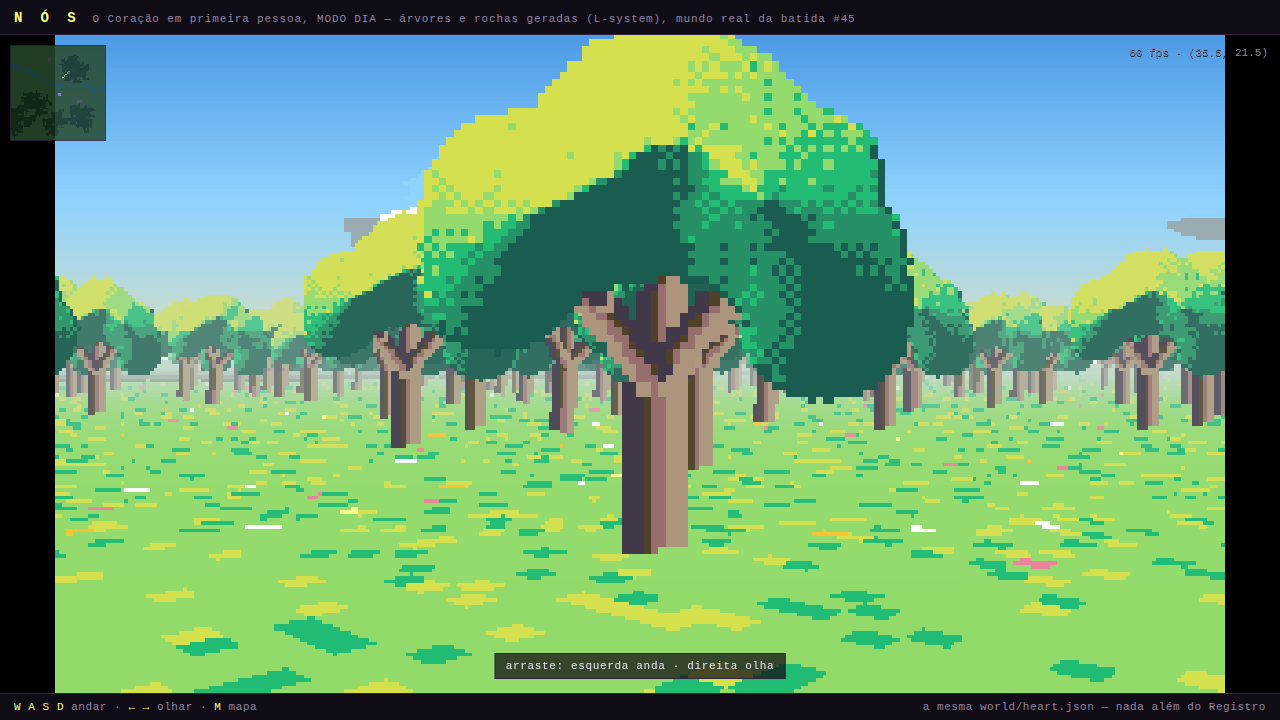
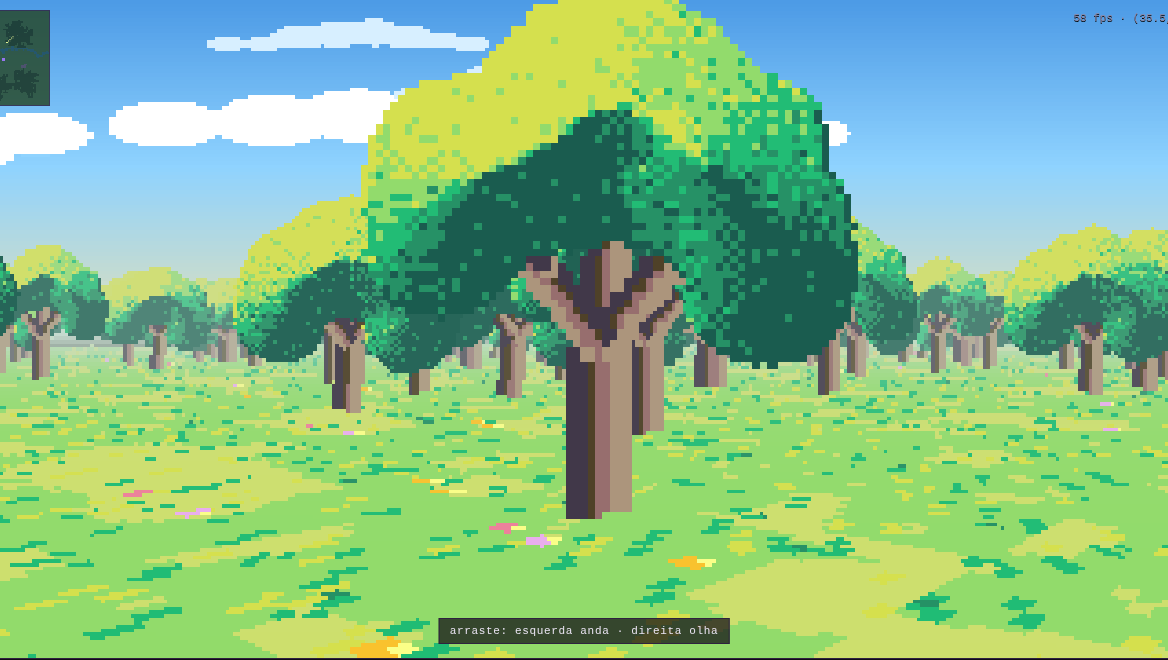
protótipo v3: chão 32px, rochas-objeto (4 faces), 8 árvores com vento, flores
- Gramado: tiles de chão agora 32px por tile de mundo (grão 2x mais fino),
  pinceladas/touceiras/flores em cacho reescaladas.
- Rochas viram OBJETO: 4 faces pré-rendidas por rotação de 90° escolhidas
  pelo ângulo de visão (rotações à la Doom) — mudam de cara quando você
  circula; textura v2 com facetas em platôs duros, rim light, rachaduras,
  musgo só no topo com borda ditherada, base achatada e sombra de contato
  embutida no sprite.
- Árvores: 8 variantes (carvalho/copado/anciao/jovem/salgueiro), folhagem
  com textura de folhinhas 1px, e VENTO — 3 frames por variante (folhas
  deslocam com peso pela altura, tronco parado), fase própria por árvore.
- Flores avulsas: haste em arco + cabeça de pétalas (5 paletas), 3 frames
  de inclinação, ~9% da campina, balançando em fase própria.
58-60fps mantidos.

Claude-Session: https://claude.ai/code/session_011RMb7NFMQktSfEYCn3A41e

diff --git a/prototipos/fps/nos-fps.html b/prototipos/fps/nos-fps.html
@@ -277,6 +277,15 @@ function growTree(opts) {
     return { buf, W, H };
   }
 
+  /* vento: desloca os aglomerados de folha pro lado, mais forte no alto da
+     copa — o TRONCO fica parado; 3 frames disso viram o balanço */
+  if (opts.windAmt) {
+    for (const lf of leaves) {
+      const heightW = 0.5 + 1.3 * (1 - lf.y / H);
+      lf.x += opts.windAmt * heightW * (0.7 + hash2(lf.x | 0, lf.y | 0) * 0.8);
+    }
+  }
+
   /* ---- copa: campo de densidade -> massa coesa iluminada ---- */
   const dens = new Float32Array(W * H);
   let cx = 0, cy = 0, minY = H, maxY = 0;
@@ -344,6 +353,8 @@ function growTree(opts) {
         else buf[y * W + x] = leafRamp[idx];
         continue;
       }
+      // textura de folhagem: marquinhas 1px subindo/descendo um tom
+      if (hash2(x * 3 + 1, y * 3 + 7) < 0.13) idx = clamp(idx + (hash2(x, y * 13) < 0.5 ? -1 : 1), 0, last);
       // brilho pontual (folha pegando sol)
       if (lam > 0.32 && hash2(x + 7, y + 13) < 0.045) idx = last;
       buf[y * W + x] = leafRamp[Math.max(idx, 0)];
@@ -443,50 +454,79 @@ function genSky(opts) {
   return { buf, W, H };
 }
 
-/* rocha: blob convexo deformado por ruído, sombreado por normal quantizada + topo de musgo */
+/* rocha v2: blob deformado por ruído com FACETAS duras (platôs), rim light
+   no alto-esquerda, sombra dura embaixo, rachaduras e musgo ditherado.
+   `view` gira a MESMA pedra (0..3 = quartos de volta): 4 faces pré-rendidas
+   viram "rotações Doom" — a pedra lê como objeto, não adesivo. */
 function genRock(opts) {
   const seed = (opts.seed | 0) || 1;
-  const rnd = mulberry32(seed);
-  const W = opts.W || 56, H = opts.H || 40;
+  const view = opts.view || 0;
+  const rot = view * Math.PI / 2;
+  const rnd = mulberry32(seed * 33871 + 5);
+  const W = opts.W || 72, H = opts.H || 52;
   const buf = new Int16Array(W * H).fill(-1);
-  const cx = W / 2, cy = H * 0.62;
-  const rx = W * (0.34 + rnd() * 0.1), ry = H * (0.3 + rnd() * 0.08);
+  const cx = W / 2, cy = H * 0.58;
+  const rx = W * (0.34 + rnd() * 0.09), ry = H * (0.32 + rnd() * 0.08);
   const off = rnd() * 128;
-  const rad = (ang) => 1 + 0.34 * (vnoise(Math.cos(ang) * 1.4 + off, Math.sin(ang) * 1.4 + off) - 0.5) * 2;
+  const baseline = cy + ry * 0.72; // base ACHATADA: pedra sentada no chão, não oval flutuante
+  const rad = (ang) => 1 + 0.36 * (vnoise(Math.cos(ang + rot) * 1.4 + off, Math.sin(ang + rot) * 1.4 + off) - 0.5) * 2;
   const inside = (x, y) => {
+    if (y > baseline) return -1;
     const ang = Math.atan2((y - cy) / ry, (x - cx) / rx);
     const rr = rad(ang);
     const d = Math.hypot((x - cx) / (rx * rr), (y - cy) / (ry * rr));
     return d <= 1 ? d : -1;
   };
+  const cosR = Math.cos(rot), sinR = Math.sin(rot);
+  const RAMP = [1, 2, 6, 7, 8];
   for (let y = 0; y < H; y++) {
     for (let x = 0; x < W; x++) {
       const d = inside(x, y);
       if (d < 0) continue;
-      // normal aproximada pelo gradiente da distância
       const eps = 1.2;
       const dl = inside(x - eps, y), dr = inside(x + eps, y);
       const du = inside(x, y - eps), dd = inside(x, y + eps);
-      const nx = (dr < 0 ? 1.4 : dr) - (dl < 0 ? 1.4 : dl);
-      const ny = (dd < 0 ? 1.4 : dd) - (du < 0 ? 1.4 : du);
+      const nx = (dr < 0 ? 1.5 : dr) - (dl < 0 ? 1.5 : dl);
+      const ny = (dd < 0 ? 1.5 : dd) - (du < 0 ? 1.5 : du);
       const nm = Math.hypot(nx, ny) || 1e-4;
-      const lam = (-nx / nm) * -0.55 + (-ny / nm) * -0.83; // luz alto-esquerda
-      const facet = fbm(x / 7 + off, y / 7 + off, 3);       // facetas internas
-      let t = 0.55 + 0.5 * lam + (facet - 0.5) * 0.55;
-      t += (BAYER[y & 3][x & 3] / 16 - 0.5) * 0.18;
-      // musgo no topo (normal apontando pra cima + parte alta da rocha)
+      const lam = (-nx / nm) * -0.55 + (-ny / nm) * -0.83;
+      const xr = cosR * (x - cx) - sinR * (y - cy), yr = sinR * (x - cx) + cosR * (y - cy);
+      const facet = Math.floor(fbm(xr / 8 + off, yr / 8 + off, 3) * 4) / 4;
+      let t = 0.52 + 0.40 * lam + (facet - 0.5) * 0.80;
+      const boundary = inside(x - 1, y) < 0 || inside(x + 1, y) < 0 || inside(x, y - 1) < 0 || inside(x, y + 1) < 0;
       const upness = -ny / nm;
-      if (upness > 0.45 && d < 0.9 && fbm(x / 5 + off * 2, y / 5, 2) > 0.42 && y < cy) {
-        buf[y * W + x] = t > 0.62 ? 37 : 36;
+      const mossV = fbm(xr / 5 + off * 2, yr / 5, 2);
+      if (upness > 0.45 && y < cy - ry * 0.22 && (mossV > 0.46 || (mossV > 0.40 && (BAYER[y & 3][x & 3] / 16) < 0.5))) {
+        buf[y * W + x] = t > 0.6 ? 37 : 36;
         continue;
       }
-      const RAMP = [1, 2, 6, 7, 8]; // sombra..luz (cinzas do jogo)
+      if (boundary) {
+        buf[y * W + x] = lam > 0.15 ? 8 : lam < -0.25 ? 1 : 2;
+        continue;
+      }
       buf[y * W + x] = RAMP[clamp(Math.round(t * 4), 0, 4)];
+    }
+  }
+  // sombra de contato: elipse escura colada na base (por trás da pedra)
+  const shW = rx * 1.15, shH = Math.max(2.5, ry * 0.22);
+  for (let y = (baseline - shH) | 0; y <= Math.min(H - 1, (baseline + shH) | 0); y++) {
+    for (let x = 0; x < W; x++) {
+      const ex = (x - cx) / shW, ey = (y - baseline) / shH;
+      if (ex * ex + ey * ey > 1) continue;
+      if (buf[y * W + x] === -1 && (ex * ex + ey * ey < 0.72 || (BAYER[y & 3][x & 3] / 16) < 0.5)) buf[y * W + x] = 30; /* miolo sólido, só a borda dithera */
+    }
+  }
+  const cracks = 2 + (rnd() * 2) | 0;
+  for (let i = 0; i < cracks; i++) {
+    let x = cx + (rnd() - 0.5) * rx * 1.1, y = cy - ry * (0.4 + rnd() * 0.4);
+    const len = H * (0.25 + rnd() * 0.3);
+    for (let k = 0; k < len; k++) {
+      if (inside(x | 0, y | 0) >= 0 && buf[(y | 0) * W + (x | 0)] >= 1 && buf[(y | 0) * W + (x | 0)] <= 8) buf[(y | 0) * W + (x | 0)] = 1;
+      x += (rnd() - 0.5) * 1.6; y += 0.9;
     }
   }
   return { buf, W, H };
 }
-
 
 'use strict';
 /* NÓS — protótipo "Visão da Intenção": raycaster clássico (DDA + floor casting
@@ -551,56 +591,90 @@ function bufToTex(gen) {
   }
   return { w: gen.W, h: gen.H, data };
 }
-const TREE_VARIANTS = [];
-for (let i = 0; i < 6; i++) {
-  const sp = i < 4 ? 'carvalho' : 'anciao';
-  TREE_VARIANTS.push(bufToTex(growTree({ species: sp, mood: 'dia', seed: 4021 + i * 977, W: 104, H: 136 })));
-}
+/* espécies extras só do protótipo (variedade de silhueta) */
+SPECIES.copado = { ...SPECIES.carvalho, spread: 0.74, leafR: [9, 14], depth: 7, len: 20, upBias: 0.03 };
+SPECIES.jovem = { ...SPECIES.carvalho, len: 15, width: 5, leafR: [5, 8], depth: 6, jitter: 0.42 };
+/* 8 variantes x 3 frames de VENTO (folhas deslocam, tronco parado) */
+const TREE_SPECIES_SET = ['carvalho', 'carvalho', 'copado', 'copado', 'anciao', 'anciao', 'jovem', 'salgueiro'];
+const TREE_VARIANTS = TREE_SPECIES_SET.map((sp, i) =>
+  [-1, 0, 1].map((w) => bufToTex(growTree({ species: sp, mood: 'dia', seed: 4021 + i * 977, W: 104, H: 136, windAmt: w })))
+);
+/* rochas: 4 variantes x 4 FACES (rotações de 90 graus escolhidas pelo ângulo de visão) */
 const ROCK_VARIANTS = [];
-for (let i = 0; i < 4; i++) ROCK_VARIANTS.push(bufToTex(genRock({ seed: 500 + i * 61, W: 56, H: 40 })));
+for (let i = 0; i < 4; i++) {
+  const views = [];
+  for (let v = 0; v < 4; v++) views.push(bufToTex(genRock({ seed: 500 + i * 61, view: v, W: 72, H: 52 })));
+  ROCK_VARIANTS.push(views);
+}
+/* flor avulsa: haste em arco + cabeça de pétalas; 3 frames de inclinação */
+function genFlower(seed, lean) {
+  const Wf = 14, Hf = 18;
+  const rnd = mulberry32(seed * 48611 + 3);
+  const buf = new Int16Array(Wf * Hf).fill(-1);
+  const put = (x, y, idx) => { x |= 0; y |= 0; if (x >= 0 && y >= 0 && x < Wf && y < Hf) buf[y * Wf + x] = idx; };
+  const PETALS = [[9, 28], [57, 60], [18, 23], [53, 52], [61, 60]][(rnd() * 5) | 0];
+  const baseX = Wf / 2, baseY = Hf - 1, len = 9 + rnd() * 4;
+  const bend = lean * (2 + rnd() * 1.2);
+  let hx = baseX;
+  const hy = baseY - len;
+  for (let k = 0; k <= len; k++) {
+    const t = k / len;
+    const x = baseX + bend * t * t;
+    put(x, baseY - k, 30);
+    if (k === ((len * 0.45) | 0)) { put(x - 1, baseY - k, 31); put(x + 1, baseY - k - 1, 31); }
+    hx = x;
+  }
+  put(hx, hy - 1, PETALS[0]); put(hx - 1, hy, PETALS[0]); put(hx + 1, hy, PETALS[0]); put(hx, hy + 1, PETALS[0]);
+  put(hx - 1, hy - 1, PETALS[1]); put(hx + 1, hy - 1, PETALS[1]);
+  put(hx, hy, 28);
+  return bufToTex({ buf, W: Wf, H: Hf });
+}
+const FLOWER_VARIANTS = [];
+for (let i = 0; i < 5; i++) FLOWER_VARIANTS.push([genFlower(21 + i * 53, -1), genFlower(21 + i * 53, 0), genFlower(21 + i * 53, 1)]);
 /* grama diurna v2: base viva + PINCELADAS direcionais (lâminas deitadas na
    mesma diagonal, como grama penteada pelo vento) + touceiras escuras +
    flores em cacho de 2x2 — lê como gramado, não como confete */
+const GTEX = 32; /* 32px por tile de mundo = grão 2x mais fino */
 function genGrassTile(seed, flowery) {
   const rnd = mulberry32(seed * 7919 + 13);
-  const buf = new Int16Array(TEX * TEX).fill(32);
+  const buf = new Int16Array(GTEX * GTEX).fill(32);
   // respiração sutil da base (manchas 1 passo mais claras)
-  for (let y = 0; y < TEX; y++) for (let x = 0; x < TEX; x++) {
-    if (vnoise(x / 5 + seed * 11, y / 5 - seed * 3) > 0.70) buf[y * TEX + x] = 33;
+  for (let y = 0; y < GTEX; y++) for (let x = 0; x < GTEX; x++) {
+    if (vnoise(x / 9 + seed * 11, y / 9 - seed * 3) > 0.70) buf[y * GTEX + x] = 33;
   }
   // pinceladas: traços de 2-4px na diagonal do vento (\), tons acima/abaixo
-  const strokes = 14 + (rnd() * 6) | 0;
+  const strokes = 46 + (rnd() * 14) | 0;
   for (let i = 0; i < strokes; i++) {
-    const sx = (rnd() * TEX) | 0, sy = (rnd() * TEX) | 0;
+    const sx = (rnd() * GTEX) | 0, sy = (rnd() * GTEX) | 0;
     const len = 2 + (rnd() * 3) | 0;
     const tone = rnd() < 0.45 ? 31 : rnd() < 0.75 ? 27 : 33;
     for (let k = 0; k < len; k++) {
-      const x = (sx + k) & (TEX - 1), y = (sy - (k >> 1) + TEX) & (TEX - 1);
-      buf[y * TEX + x] = tone;
+      const x = (sx + k) & (GTEX - 1), y = (sy - (k >> 1) + TEX) & (GTEX - 1);
+      buf[y * GTEX + x] = tone;
     }
   }
   // touceiras: 2-3 aglomerados escuros pequenos (ancoram o olho)
-  const clumps = 2 + (rnd() * 2) | 0;
+  const clumps = 6 + (rnd() * 3) | 0;
   for (let i = 0; i < clumps; i++) {
-    const cx = (rnd() * TEX) | 0, cy = (rnd() * TEX) | 0;
+    const cx = (rnd() * GTEX) | 0, cy = (rnd() * GTEX) | 0;
     for (let k = 0; k < 4; k++) {
-      const x = (cx + ((rnd() * 3) | 0) - 1 + TEX) & (TEX - 1), y = (cy + ((rnd() * 2) | 0) + TEX) & (TEX - 1);
-      buf[y * TEX + x] = k === 0 ? 30 : 31;
+      const x = (cx + ((rnd() * 3) | 0) - 1 + TEX) & (GTEX - 1), y = (cy + ((rnd() * 2) | 0) + TEX) & (GTEX - 1);
+      buf[y * GTEX + x] = k === 0 ? 30 : 31;
     }
   }
   // flores em cacho (só nos tiles floridos): coroa de pétalas + miolo
   if (flowery) {
-    const n = 1 + (rnd() * 2) | 0;
+    const n = 2 + (rnd() * 3) | 0;
     for (let i = 0; i < n; i++) {
-      const fx = 2 + (rnd() * (TEX - 4)) | 0, fy = 2 + (rnd() * (TEX - 4)) | 0;
+      const fx = 2 + (rnd() * (GTEX - 4)) | 0, fy = 2 + (rnd() * (GTEX - 4)) | 0;
       const petal = [9, 57, 18, 53][(rnd() * 4) | 0];
-      buf[fy * TEX + fx] = petal;
-      buf[fy * TEX + ((fx + 1) & (TEX - 1))] = petal;
-      buf[((fy + 1) & (TEX - 1)) * TEX + fx] = petal;
-      buf[((fy + 1) & (TEX - 1)) * TEX + ((fx + 1) & (TEX - 1))] = 28; // miolo
+      buf[fy * GTEX + fx] = petal;
+      buf[fy * GTEX + ((fx + 1) & (GTEX - 1))] = petal;
+      buf[((fy + 1) & (GTEX - 1)) * GTEX + fx] = petal;
+      buf[((fy + 1) & (GTEX - 1)) * GTEX + ((fx + 1) & (GTEX - 1))] = 28; // miolo
     }
   }
-  return bufToTex({ buf, W: TEX, H: TEX });
+  return bufToTex({ buf, W: GTEX, H: GTEX });
 }
 const GRASS_TILES = [genGrassTile(1), genGrassTile(2), genGrassTile(3), genGrassTile(4), genGrassTile(5, true), genGrassTile(6, true)];
 
@@ -747,7 +821,7 @@ for (let ty = 0; ty < world.h; ty++) {
       if (h > 0.62) continue; // desbaste: floresta com respiro
       const jx = (hash2(tx * 3, ty * 7) - 0.5) * 0.6, jy = (hash2(tx * 11, ty * 5) - 0.5) * 0.6;
       const v = TREE_VARIANTS[(h * TREE_VARIANTS.length) | 0];
-      bills.push({ x: tx + 0.5 + jx, y: ty + 0.5 + jy, gen: v, label: 'arvore', scale: 2.3 + h * 0.7, lift: 0 });
+      bills.push({ x: tx + 0.5 + jx, y: ty + 0.5 + jy, genFrames: v, label: 'arvore', scale: 2.3 + h * 0.7, lift: 0, phase: hash2(tx * 7, ty * 3) * Math.PI * 2, swaySpeed: 1600 });
     } else if (t === 'm') {
       const ht = hash2(tx * 29, ty * 31);
       if (ht < 0.22) { // graminha balançando — objeto, não textura
@@ -756,7 +830,17 @@ for (let ty = 0; ty < world.h; ty++) {
           x: tx + 0.5 + (hash2(tx * 41, ty * 43) - 0.5) * 0.7,
           y: ty + 0.5 + (hash2(tx * 47, ty * 53) - 0.5) * 0.7,
           genFrames: v, label: 'tufo', scale: 0.44 + ht * 1.6, lift: 0,
-          phase: hash2(tx * 59, ty * 61) * Math.PI * 2,
+          phase: hash2(tx * 59, ty * 61) * Math.PI * 2, swaySpeed: 620,
+        });
+      }
+      const hf = hash2(tx * 67, ty * 71);
+      if (hf < 0.09) { // flor avulsa balançando
+        const vf = FLOWER_VARIANTS[(hf * 913) % FLOWER_VARIANTS.length | 0];
+        bills.push({
+          x: tx + 0.5 + (hash2(tx * 73, ty * 79) - 0.5) * 0.7,
+          y: ty + 0.5 + (hash2(tx * 83, ty * 89) - 0.5) * 0.7,
+          genFrames: vf, label: 'flor', scale: 0.24 + hf * 0.9, lift: 0,
+          phase: hash2(tx * 97, ty * 101) * Math.PI * 2, swaySpeed: 460,
         });
       }
       const h = hash2(tx * 13, ty * 17);
@@ -765,7 +849,7 @@ for (let ty = 0; ty < world.h; ty++) {
       if (dCore < 6) continue; // praça do Núcleo limpa
       rockTiles.add(ty * world.w + tx);
       const v = ROCK_VARIANTS[(h * 997 * ROCK_VARIANTS.length | 0) % ROCK_VARIANTS.length];
-      bills.push({ x: tx + 0.5, y: ty + 0.5, gen: v, label: 'rocha', scale: 0.55 + h * 0.5, lift: 0 });
+      bills.push({ x: tx + 0.5, y: ty + 0.5, genViews: v, label: 'rocha', scale: 0.62 + h * 0.55, lift: 0 });
     }
   }
 }
@@ -839,7 +923,7 @@ function render(now) {
       } else {
         const h = ((tx * 73856093) ^ (ty * 19349663)) >>> 0;
         const g = GRASS_TILES[h % GRASS_TILES.length];
-        c = g.data[((((fy - ty) * TEX) | 0) * TEX + (((fx - tx) * TEX) | 0))];
+        c = g.data[((((fy - ty) * GTEX) | 0) * GTEX + (((fx - tx) * GTEX) | 0))];
       }
       px[y * W + x] = shade(c, f, glowAt(fx, fy) * f);
       fx += dxs; fy += dys;
@@ -904,9 +988,13 @@ function render(now) {
     const sx = ((W / 2) * (1 + tx / ty)) | 0;
     let genTex = b.gen;
     if (b.genFrames) {
-      // vento: seno com fase própria — cada tufo no seu tempo, sem "coreografia"
-      const k = (Math.sin(now / 620 + b.phase) + 1) / 2;
+      // vento: seno com fase e velocidade próprias — nada de coreografia
+      const k = (Math.sin(now / (b.swaySpeed || 620) + (b.phase || 0)) + 1) / 2;
       genTex = b.genFrames[Math.round(k * (b.genFrames.length - 1))];
+    } else if (b.genViews) {
+      // "rotações Doom": a face muda conforme o ângulo de onde você olha
+      const va = Math.atan2(b.y - cam.y, b.x - cam.x);
+      genTex = b.genViews[((Math.round(va / (Math.PI / 2)) % 4) + 4) % 4];
     }
     const tex = genTex ?? textures[b.tex];
     const tw = genTex ? genTex.w : TEX, th = genTex ? genTex.h : TEX;

diff --git a/prototipos/fps/tree-core.js b/prototipos/fps/tree-core.js
@@ -135,6 +135,15 @@ function growTree(opts) {
     return { buf, W, H };
   }
 
+  /* vento: desloca os aglomerados de folha pro lado, mais forte no alto da
+     copa — o TRONCO fica parado; 3 frames disso viram o balanço */
+  if (opts.windAmt) {
+    for (const lf of leaves) {
+      const heightW = 0.5 + 1.3 * (1 - lf.y / H);
+      lf.x += opts.windAmt * heightW * (0.7 + hash2(lf.x | 0, lf.y | 0) * 0.8);
+    }
+  }
+
   /* ---- copa: campo de densidade -> massa coesa iluminada ---- */
   const dens = new Float32Array(W * H);
   let cx = 0, cy = 0, minY = H, maxY = 0;
@@ -202,6 +211,8 @@ function growTree(opts) {
         else buf[y * W + x] = leafRamp[idx];
         continue;
       }
+      // textura de folhagem: marquinhas 1px subindo/descendo um tom
+      if (hash2(x * 3 + 1, y * 3 + 7) < 0.13) idx = clamp(idx + (hash2(x, y * 13) < 0.5 ? -1 : 1), 0, last);
       // brilho pontual (folha pegando sol)
       if (lam > 0.32 && hash2(x + 7, y + 13) < 0.045) idx = last;
       buf[y * W + x] = leafRamp[Math.max(idx, 0)];